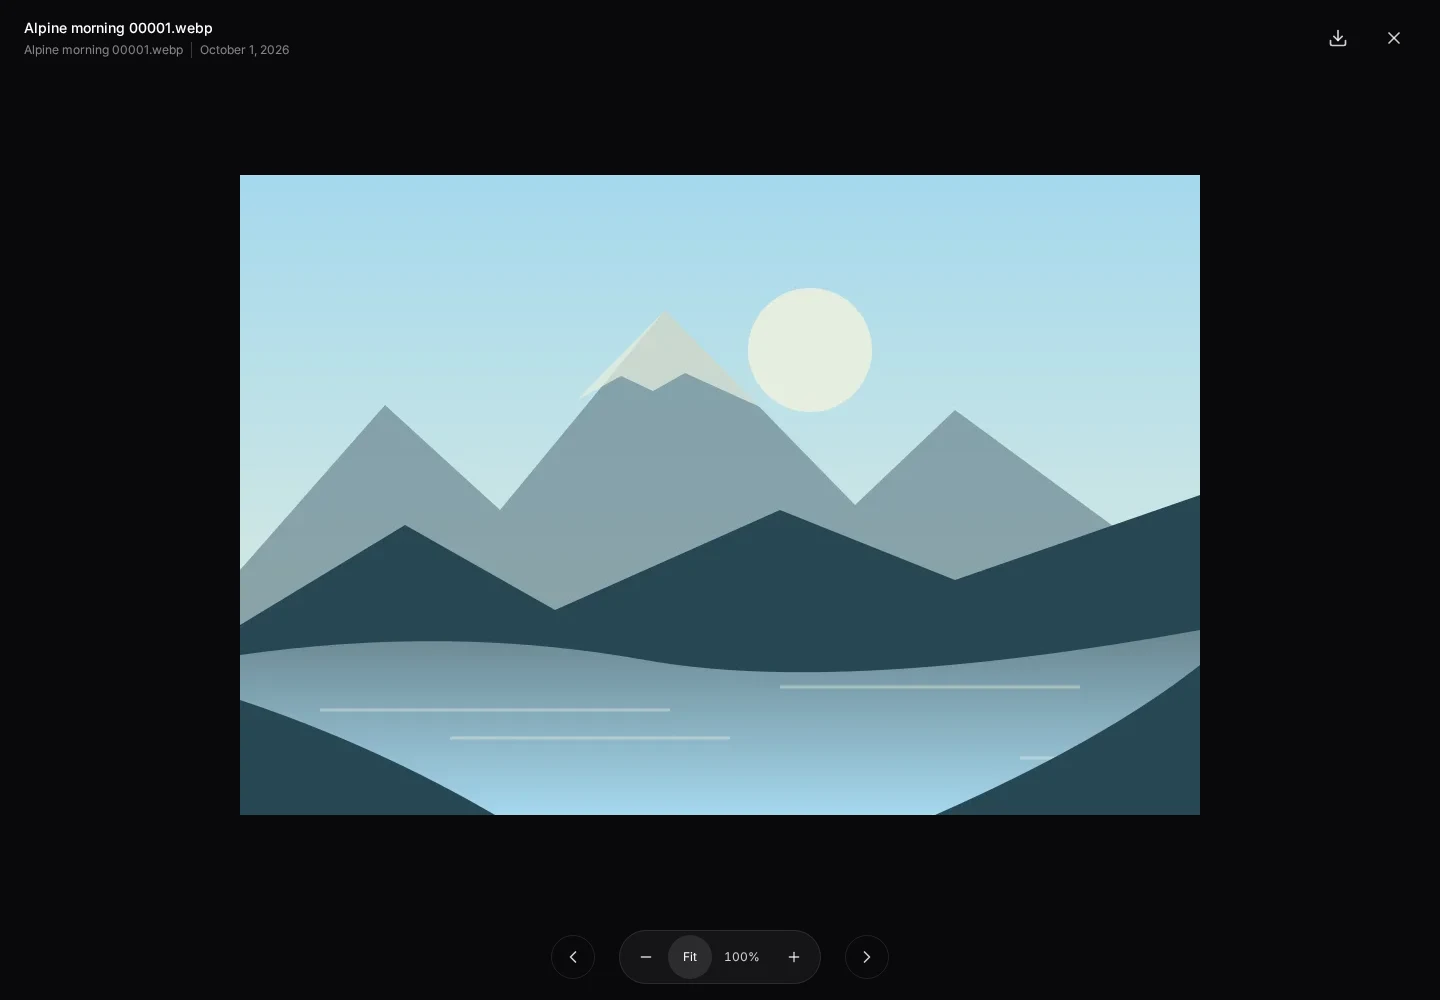
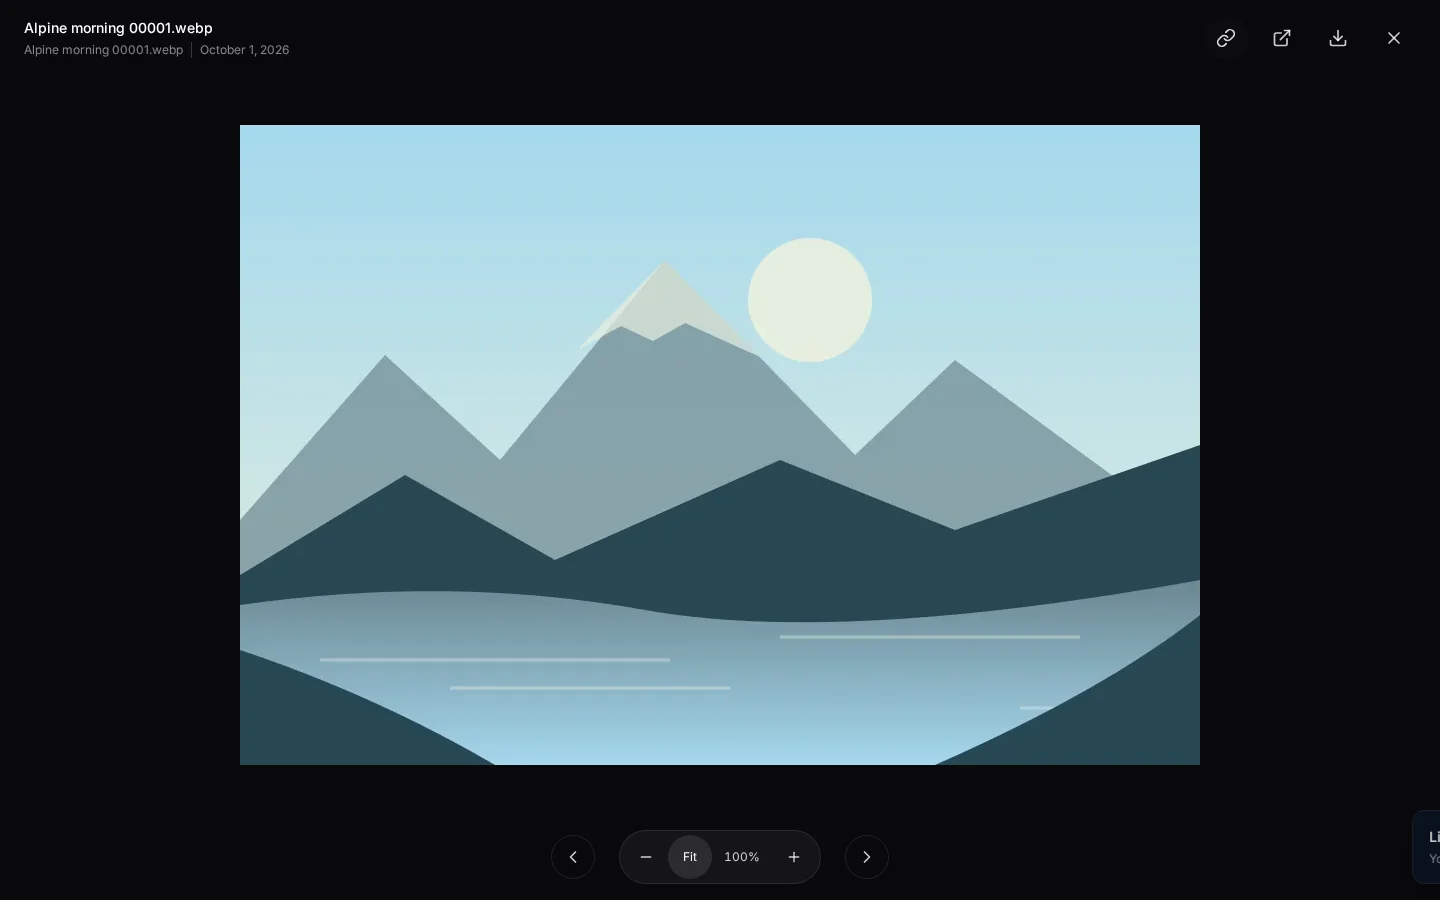
Add share actions to the gallery image viewer

diff --git a/components/file/image-lightbox.tsx b/components/file/image-lightbox.tsx
@@ -7,7 +7,9 @@ import {
   ChevronLeft,
   ChevronRight,
   Download,
+  ExternalLink,
   ImageOff,
+  Link,
   Loader2,
   Minus,
   Plus,
@@ -22,10 +24,13 @@ import {
 
 import { cn } from '@/lib/utils'
 
+import { useToast } from '@/hooks/use-toast'
+
 export interface LightboxImage {
   id: string
   name: string
   src: string
+  shareUrl?: string
   downloadUrl?: string
   subtitle?: string
 }
@@ -61,6 +66,7 @@ export function ImageLightbox({
   navigationPending = false,
   positionLabel,
 }: ImageLightboxProps) {
+  const { toast } = useToast()
   const [opener] = useState(() =>
     document.activeElement instanceof HTMLElement
       ? document.activeElement
@@ -144,7 +150,7 @@ export function ImageLightbox({
                 aria-live="polite"
                 aria-atomic="true"
               >
-                <span>
+                <span className="shrink-0 whitespace-nowrap">
                   {positionLabel || `${index + 1} of ${images.length}`}
                 </span>
                 {current.subtitle && (
@@ -154,6 +160,44 @@ export function ImageLightbox({
                 )}
               </div>
             </div>
+            {current.shareUrl && (
+              <>
+                <button
+                  type="button"
+                  className={controlClass}
+                  aria-label="Copy link"
+                  title="Copy link"
+                  onClick={async () => {
+                    try {
+                      await navigator.clipboard.writeText(
+                        new URL(current.shareUrl!, window.location.origin).href
+                      )
+                      toast({
+                        title: 'Link copied',
+                        description: 'Your file is ready to share.',
+                      })
+                    } catch {
+                      toast({
+                        title: 'Couldn’t copy the link',
+                        description:
+                          'Open the share page and copy its address from your browser.',
+                        variant: 'destructive',
+                      })
+                    }
+                  }}
+                >
+                  <Link className="h-5 w-5" />
+                </button>
+                <a
+                  className={controlClass}
+                  href={current.shareUrl}
+                  aria-label="Open share page"
+                  title="Open share page"
+                >
+                  <ExternalLink className="h-5 w-5" />
+                </a>
+              </>
+            )}
             {current.downloadUrl && (
               <a
                 className={controlClass}

diff --git a/components/dashboard/file-grid/index.tsx b/components/dashboard/file-grid/index.tsx
@@ -748,6 +748,7 @@ function FileLibrary({ scope }: { scope: string }) {
               name: file.name,
               src: urls.thumbnail,
               downloadUrl: urls.download,
+              shareUrl: urls.page,
               subtitle: format(new Date(file.uploadedAt), 'MMMM d, yyyy'),
             }
           })}

diff --git a/docs/site/guide/library.md b/docs/site/guide/library.md
@@ -105,9 +105,11 @@ Open an image preview to browse it in the full-screen viewer. The image sequence
 | Close                  | Choose the close button or press Escape.   |
 | Download               | Use the download control when available.   |
 
+The top-right **Copy link** control copies the current image’s share-page URL. **Open share page** takes you to that page in the same tab; browser Back returns to the library. These actions do not change visibility or remove password protection. If copying fails (for example, clipboard access is blocked), open the share page and copy the address from your browser.
+
 If an image disappears from the filtered results while you browse, Flare may ask you to choose another image. If a next image fails to load, check your connection and retry.
 
-<Screenshot src="/screenshots/timeline/library-image-viewer.webp" alt="Full-screen image viewer opened from the continuous library, with navigation and zoom controls" caption="Open any loaded image and continue through the filtered collection beyond the visible cards." />
+<Screenshot src="/screenshots/timeline/library-image-viewer.webp" alt="Full-screen image viewer opened from the continuous library, with copy-link, share-page, download, navigation, and zoom controls" caption="Open any loaded image and continue through the filtered collection beyond the visible cards." />
 
 ## Work with a file
 
